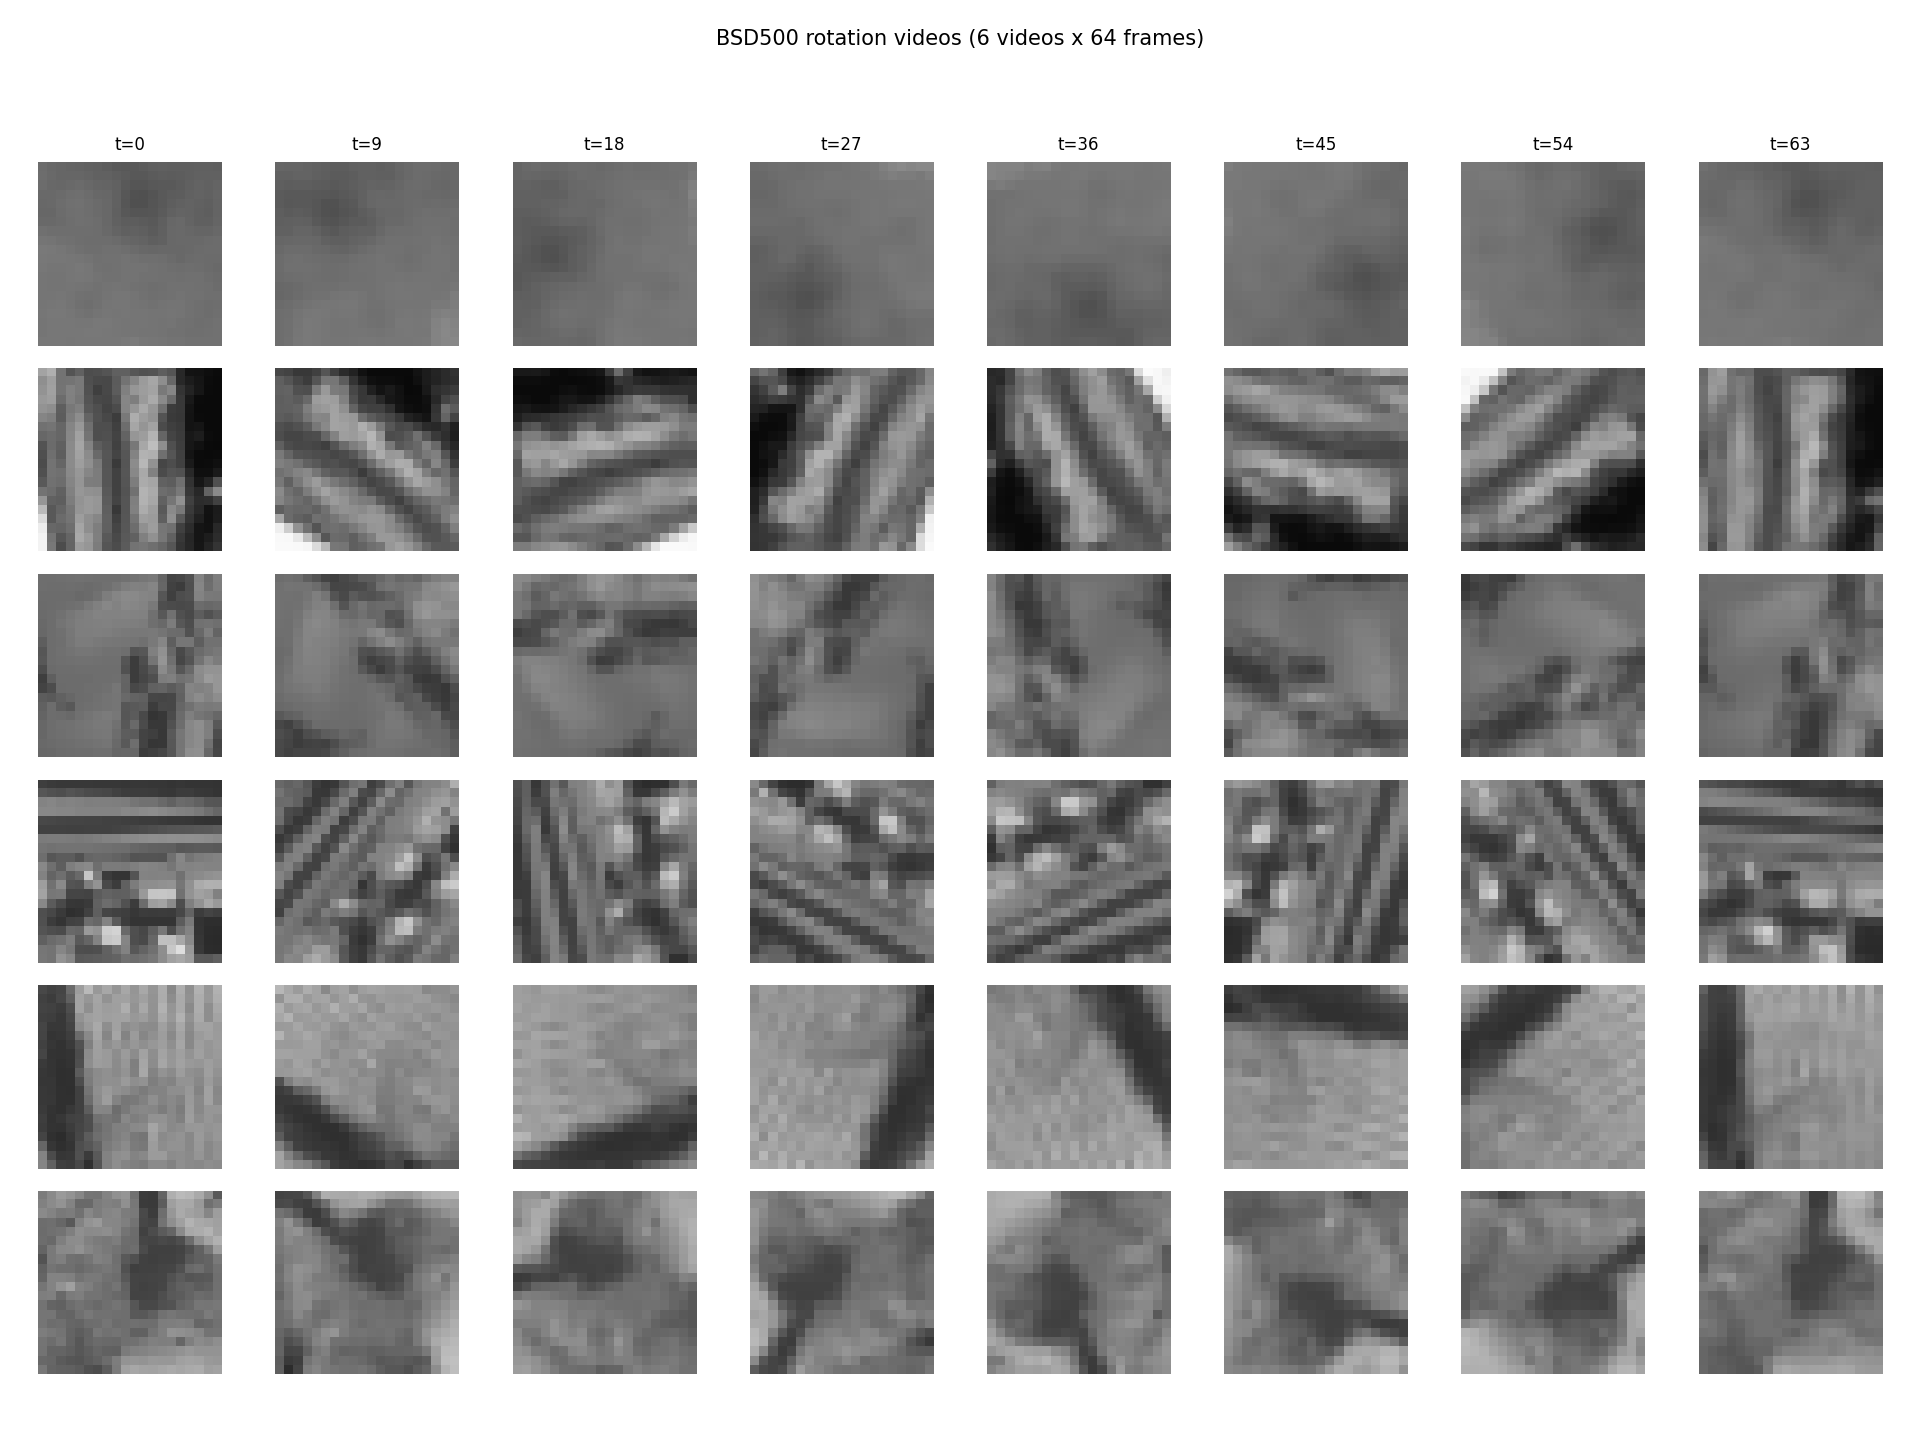
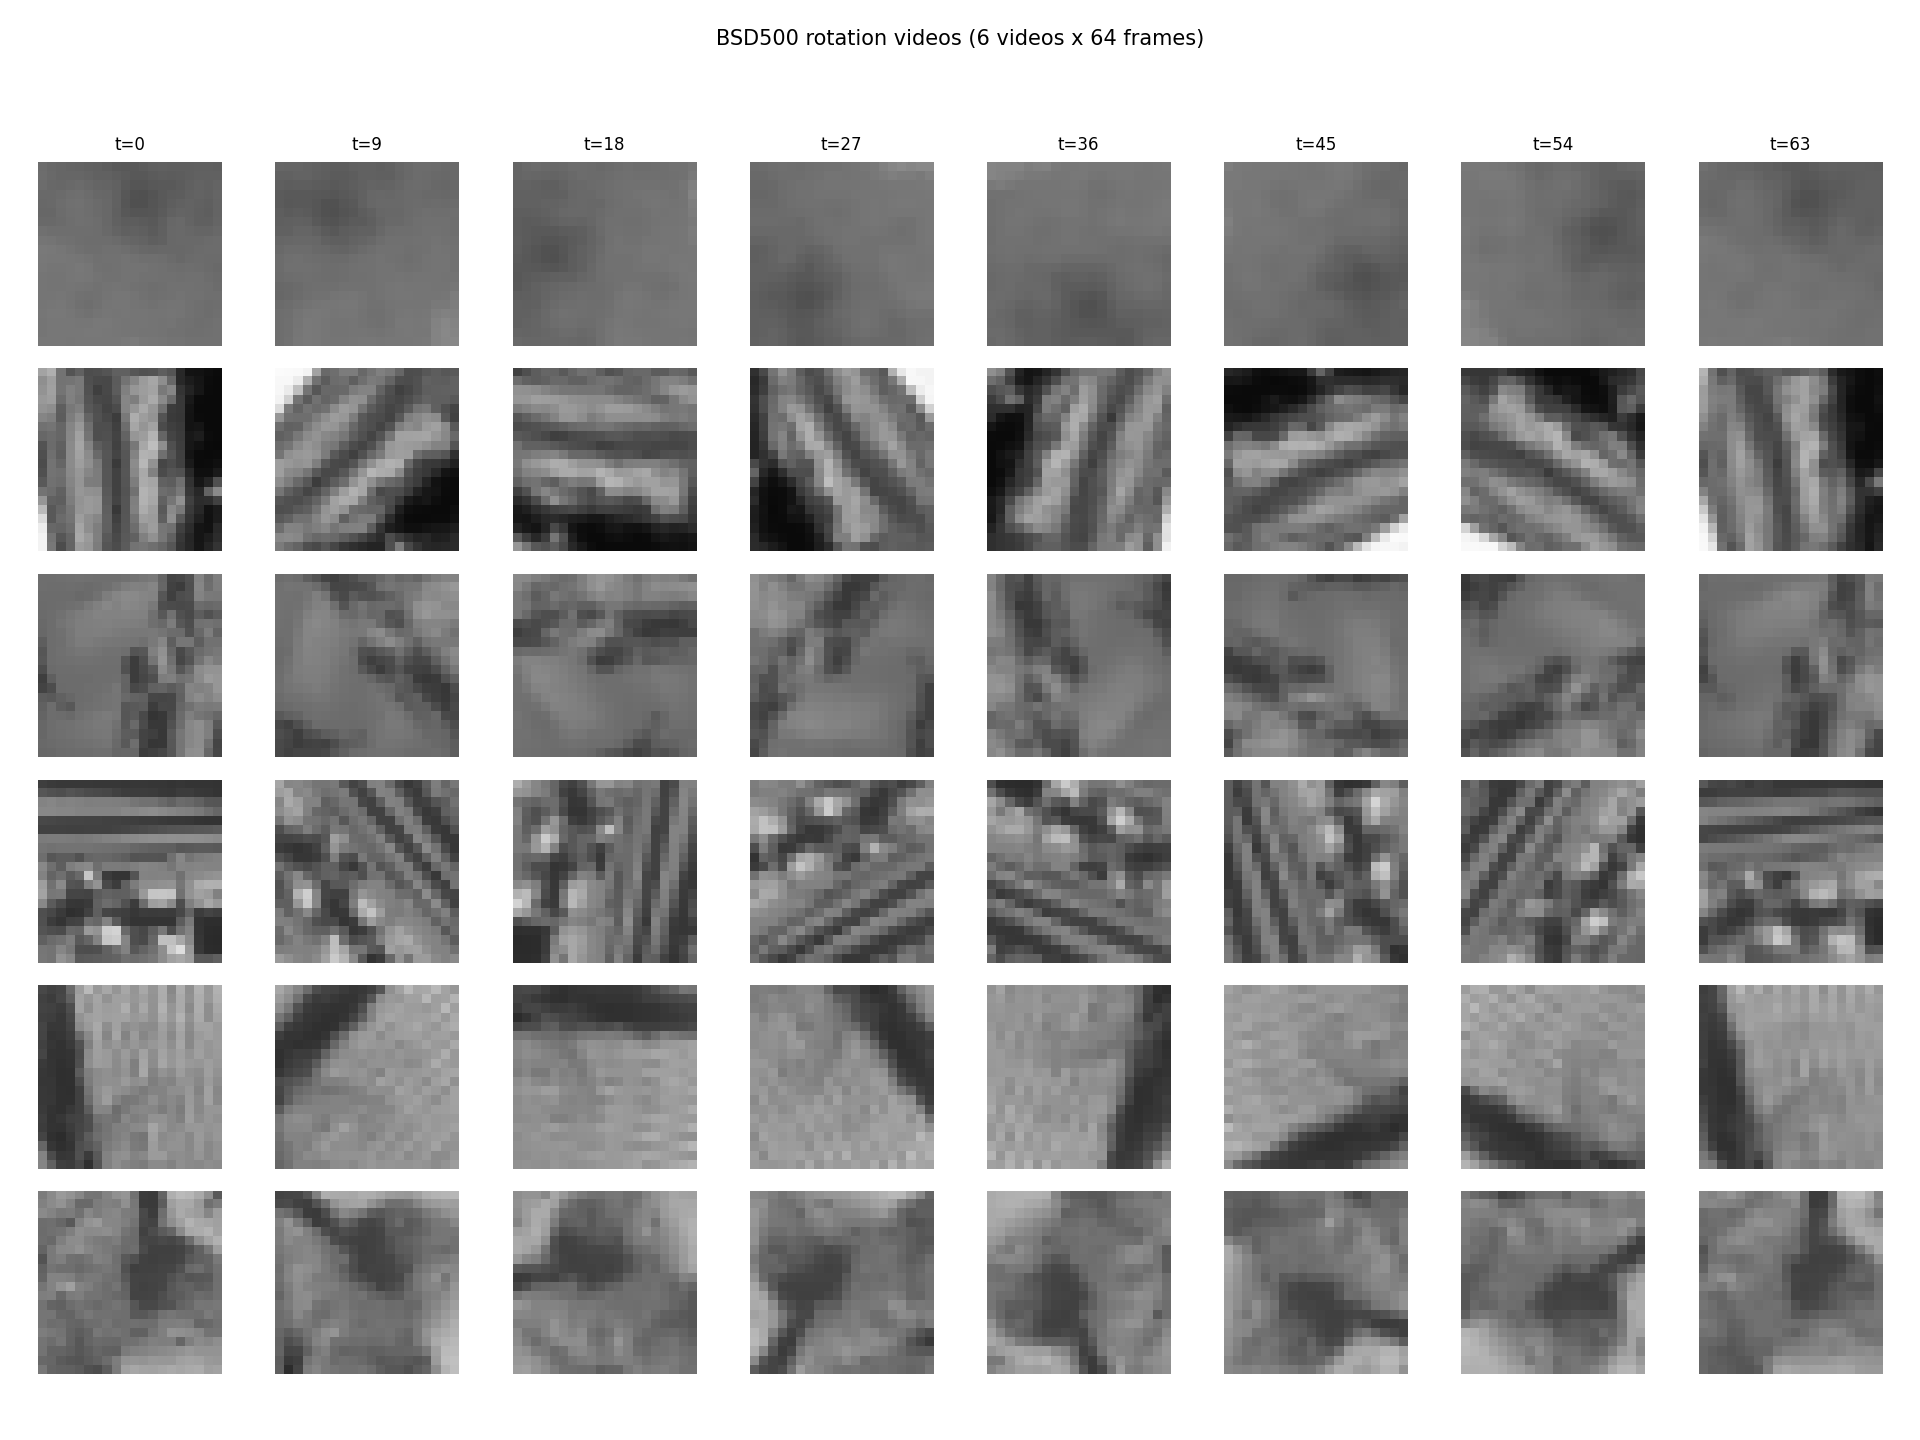
parametrised rotation augmentation

Changed region(s): [[0.125, 0.5312, 1.0, 0.8125], [0.125, 0.25, 1.0, 0.4062]]

diff --git a/data/bsd500_video.py b/data/bsd500_video.py
@@ -3,8 +3,9 @@
 BSD500 contains still images, not video. This module synthesises a random
 video clip from a single still by selecting a random patch within the image
 and rotating the whole image about the centre of that patch, one frame at a
-time. Each video performs one full 360-degree rotation across its frames, so
-the per-frame rotation step is fixed at ``360 / clip_length`` degrees.
+time. Each video rotates through a total angle sampled uniformly from a
+configurable range (default 50–360°); the per-frame step is that total angle
+divided by ``clip_length``, so smaller ranges rotate slower.
 
 Rotation happens at sampling time (not baked into stored chunks), so each
 training batch draws freshly randomized rotation videos. The output has the
@@ -22,14 +23,18 @@ the layer-1 / layer-2 training loops:
 
 Transformation semantics
 -----------------------
-For each clip a single random patch origin is chosen within the crop margins.
-Every frame ``t`` is the full image rotated about that patch centre by
-``t * (360 / clip_length)`` degrees, so the clip completes one full 360
-degree rotation by the last frame. Rotation uses bilinear interpolation (pure
-NumPy, no PIL at runtime); out-of-bounds reads are edge-clamped.
+For each clip a single random patch origin, a single rotation direction
+(``+1`` clockwise or ``-1`` anti-clockwise), and a single total rotation angle
+(sampled uniformly from ``rotation_range_deg``) are chosen. Every frame ``t``
+of that clip is the full image rotated about that patch centre by
+``d * t * (angle / clip_length)`` degrees, where ``d`` is the clip's fixed
+direction and ``angle`` is its fixed total angle, so every frame of a video
+rotates the same way and the clip completes its total rotation by the last
+frame. Rotation uses bilinear interpolation (pure NumPy, no PIL at runtime);
+out-of-bounds reads are edge-clamped.
 
-There is no translation and no per-frame re-sampling: the rotation step is
-constant for the whole video.
+There is no translation and no per-frame re-sampling: the rotation step,
+total angle, and direction are constant for the whole video.
 """
 
 from __future__ import annotations
@@ -86,14 +91,25 @@ def sample_bsd500_clips(
     rng: np.random.Generator,
     *,
     margins: BSD500CropMargins | None = None,
+    rotation_range_deg: tuple[float, float] = (50.0, 360.0),
 ) -> np.ndarray:
     """Sample random synthetic video clips ``(n_clips, T, P, P)`` from stills.
 
-    Rotation happens at sampling time. Each clip picks one still and a random
-    PxP patch origin within the margins. The full image is rotated about the
-    patch centre by ``t * (360 / clip_length)`` degrees per frame, then the
-    PxP patch is cropped - so the same features rotate in place within the
-    patch region throughout the clip.
+    Rotation happens at sampling time. Each clip picks one still, a random PxP
+    patch origin within the margins, a single rotation direction (``+1``
+    clockwise or ``-1`` anti-clockwise), and a single total rotation angle
+    sampled uniformly from ``rotation_range_deg``. The full image is rotated
+    about the patch centre by ``d * t * (angle / clip_length)`` degrees per
+    frame, where ``d`` is the clip's fixed direction and ``angle`` is its fixed
+    total angle, then the PxP patch is cropped - so every frame of a video
+    rotates the same way.
+
+    Parameters
+    ----------
+    rotation_range_deg
+        ``(min_deg, max_deg)`` total rotation angle range in degrees, sampled
+        uniformly per clip. Default ``(50.0, 360.0)``. Pass ``(360.0, 360.0)``
+        to restore the previous fixed full-360° behaviour.
 
     Returns
     -------
@@ -110,6 +126,14 @@ def sample_bsd500_clips(
         raise ValueError(f"clip_length must be positive, got {clip_length}.")
     if patch_size <= 0:
         raise ValueError(f"patch_size must be positive, got {patch_size}.")
+
+    rot_min, rot_max = float(rotation_range_deg[0]), float(rotation_range_deg[1])
+    if rot_min < 0.0:
+        raise ValueError(f"rotation_range_deg min must be >= 0, got {rot_min}.")
+    if rot_max < rot_min:
+        raise ValueError(
+            f"rotation_range_deg max ({rot_max}) must be >= min ({rot_min})."
+        )
 
     n_images, height, width = images.shape
     if patch_size > height - margins.top - margins.bottom:
@@ -139,8 +163,14 @@ def sample_bsd500_clips(
         size=n_clips,
     )
 
-    # Fixed per-frame rotation so the clip completes one full 360 degrees.
-    step_deg = 360.0 / clip_length
+    # Per-clip rotation direction: +1 clockwise, -1 anti-clockwise. Drawn once
+    # per clip so every frame of a video rotates the same way.
+    direction = rng.choice([-1.0, 1.0], size=n_clips)
+
+    # Per-clip total rotation angle, sampled uniformly from the configured range.
+    # step_deg is degrees per frame = total angle / clip_length.
+    angle_deg = rng.uniform(rot_min, rot_max, size=n_clips)                 # (n_clips,)
+    step_deg = angle_deg / clip_length                                      # (n_clips,)
 
     # Patch-local destination coords relative to the patch centre.
     half = (patch_size - 1) / 2.0
@@ -151,19 +181,28 @@ def sample_bsd500_clips(
     # Per-frame source-coordinate offset (relative to patch centre).
     # Because rotation is about the patch centre, these offsets depend only
     # on (t, dy, dx) -- not on the clip origin (oy, ox) -- so they are
-    # computed once and reused for every clip.
-    angles = np.arange(clip_length, dtype=np.float64) * step_deg  # (T,)
-    angle_rad = np.deg2rad(angles)                                # (T,)
-    c = np.cos(angle_rad)[:, None, None]                          # (T, 1, 1)
-    s = np.sin(angle_rad)[:, None, None]                          # (T, 1, 1)
-    off_y = c * dyy[None, :, :] + s * dxx[None, :, :]             # (T, P, P)
-    off_x = -s * dyy[None, :, :] + c * dxx[None, :, :]            # (T, P, P)
+    # computed once per clip and reused across patches.
+    # angles: (n_clips, T); c/s: (n_clips, T, 1, 1) for per-clip steps.
+    angles = np.arange(clip_length, dtype=np.float64)[None, :] * step_deg[:, None]  # (n_clips, T)
+    angle_rad = np.deg2rad(angles)                                                     # (n_clips, T)
+    c = np.cos(angle_rad)[:, :, None, None]                                            # (n_clips, T, 1, 1)
+    s = np.sin(angle_rad)[:, :, None, None]                                            # (n_clips, T, 1, 1)
+    # Direction-independent component tables (n_clips, T, P, P). Combining with
+    # the per-clip sign d yields R(d * theta): d=+1 clockwise, d=-1 anti-clockwise.
+    c_dyy = c * dyy[None, None, :, :]
+    s_dxx = s * dxx[None, None, :, :]
+    c_dxx = c * dxx[None, None, :, :]
+    s_dyy = s * dyy[None, None, :, :]
 
     clips = np.empty((n_clips, clip_length, patch_size, patch_size), dtype=np.float32)
     for i in range(n_clips):
         img = images[int(img_idx[i])]
         oy = int(y0[i])
         ox = int(x0[i])
+        d = float(direction[i])
+        # Per-clip rotation offsets: R(d * theta_i) applied to (dy, dx).
+        off_y = c_dyy[i] + d * s_dxx[i]
+        off_x = c_dxx[i] - d * s_dyy[i]
         # src_y/src_x: (T, P, P) source coords for every patch pixel, every frame.
         src_y = oy + half + off_y
         src_x = ox + half + off_x
@@ -195,6 +234,7 @@ class BSD500ClipStream:
         margins: BSD500CropMargins | None = None,
         seed: int = config.SEED,
         image_size: int = config.BSD500_IMAGE_SIZE,
+        rotation_range_deg: tuple[float, float] = (50.0, 360.0),
     ) -> None:
         if isinstance(images, (str, Path)):
             images = images_to_array(images, size=image_size)
@@ -222,6 +262,7 @@ class BSD500ClipStream:
             bottom=config.CROP_MARGIN_BOTTOM,
         )
         self.rng = np.random.default_rng(seed)
+        self.rotation_range_deg = (float(rotation_range_deg[0]), float(rotation_range_deg[1]))
 
     def sample_raw_batch(self, n_clips: int | None = None) -> np.ndarray:
         """Return ``(B, T, patch, patch)`` raw clips on the CPU."""
@@ -235,6 +276,7 @@ class BSD500ClipStream:
             self.patch_size,
             self.rng,
             margins=self.margins,
+            rotation_range_deg=self.rotation_range_deg,
         )
 
     def sample_batch(self, n_clips: int | None = None) -> Tensor:

diff --git a/scripts/visualise_bsd500_videos.py b/scripts/visualise_bsd500_videos.py
@@ -76,34 +76,45 @@ def _plot_video_grid(videos: np.ndarray, out_path: Path, n_frames: int, title: s
 def _plot_video_gif(videos: np.ndarray, out_path: Path, title: str, fps: int = 10) -> None:
     """Save an animated GIF of ``(n_videos, T, H, W)`` videos rotating through frames.
 
-    Each animation frame shows one time step across all videos in a grid.
-    Uses PillowWriter (no ffmpeg dependency).
+    Videos are arranged in a 2D grid (rows × columns); each animation frame
+    advances all videos to the next time step simultaneously. Uses PillowWriter
+    (no ffmpeg dependency).
     """
     n_videos, n_frames, height, width = videos.shape
+    n_cols = int(np.ceil(np.sqrt(n_videos)))
+    n_rows = int(np.ceil(n_videos / n_cols))
     fig, axes = plt.subplots(
-        n_videos,
-        1,
-        figsize=(2.0, 2.0 * n_videos),
+        n_rows,
+        n_cols,
+        figsize=(2.2 * n_cols, 2.2 * n_rows),
         squeeze=False,
     )
     fig.suptitle(title, fontsize=10)
 
+    # Hide any unused subplot cells.
+    for r in range(n_rows):
+        for c in range(n_cols):
+            ax = axes[r, c]
+            ax.axis("off")
+            if r * n_cols + c >= n_videos:
+                continue
+
     ims = []
     for t in range(n_frames):
         row_ims = []
-        for r in range(n_videos):
-            ax = axes[r, 0]
-            im = ax.imshow(videos[r, t], cmap="gray", vmin=0, vmax=1, animated=True)
-            ax.axis("off")
-            if r == 0:
-                ax.set_title(f"t={t}", fontsize=8)
-            if t == 0:
-                ax.set_ylabel(f"video {r}", rotation=0, labelpad=30, fontsize=8)
-            row_ims.append(im)
+        for r in range(n_rows):
+            for c in range(n_cols):
+                vid_idx = r * n_cols + c
+                ax = axes[r, c]
+                if vid_idx >= n_videos:
+                    continue
+                im = ax.imshow(
+                    videos[vid_idx, t], cmap="gray", vmin=0, vmax=1, animated=True
+                )
+                if t == 0:
+                    ax.set_title(f"video {vid_idx}", fontsize=8)
+                row_ims.append(im)
         ims.append(row_ims)
-        # Clear titles for subsequent frames so they get updated properly
-        for r in range(n_videos):
-            axes[r, 0].set_title("")
 
     plt.tight_layout(rect=[0, 0.03, 1, 0.95])
 

diff --git a/train_layer1.py b/train_layer1.py
@@ -124,6 +124,15 @@ def _parse_args() -> argparse.Namespace:
         help="Random seed for data sampling and basis initialisation.",
     )
     parser.add_argument(
+        "--bsd500-rotation-range",
+        type=float,
+        nargs=2,
+        default=(50.0, 360.0),
+        metavar=("MIN", "MAX"),
+        help="BSD500 total rotation angle range in degrees, sampled uniformly per clip "
+        "(default 50 360). Pass 360 360 for the previous fixed full-360 behaviour.",
+    )
+    parser.add_argument(
         "--num-patches",
         type=int,
         default=None,
@@ -304,6 +313,7 @@ def main() -> None:
             margins=margins,
             seed=args.seed,
             image_size=config.BSD500_IMAGE_SIZE,
+            rotation_range_deg=args.bsd500_rotation_range,
         )
     elif has_chunks:
         # Natural-movies chunks: pre-baked video, rotation already baked in.

diff --git a/train_layer2_motion.py b/train_layer2_motion.py
@@ -134,6 +134,15 @@ def _parse_args() -> argparse.Namespace:
         help="Random seed for data sampling and basis initialisation.",
     )
     parser.add_argument(
+        "--bsd500-rotation-range",
+        type=float,
+        nargs=2,
+        default=(50.0, 360.0),
+        metavar=("MIN", "MAX"),
+        help="BSD500 total rotation angle range in degrees, sampled uniformly per clip "
+        "(default 50 360). Pass 360 360 for the previous fixed full-360 behaviour.",
+    )
+    parser.add_argument(
         "--log-every",
         type=int,
         default=config.LAYER2_LOG_EVERY,
@@ -418,6 +427,7 @@ def main() -> None:
             margins=margins,
             seed=args.seed,
             image_size=config.BSD500_IMAGE_SIZE,
+            rotation_range_deg=args.bsd500_rotation_range,
         )
     else:
         stream = Layer1ClipStream(

diff --git a/train_layer2_form.py b/train_layer2_form.py
@@ -134,6 +134,15 @@ def _parse_args() -> argparse.Namespace:
         help="Random seed for data sampling and basis initialisation.",
     )
     parser.add_argument(
+        "--bsd500-rotation-range",
+        type=float,
+        nargs=2,
+        default=(50.0, 360.0),
+        metavar=("MIN", "MAX"),
+        help="BSD500 total rotation angle range in degrees, sampled uniformly per clip "
+        "(default 50 360). Pass 360 360 for the previous fixed full-360 behaviour.",
+    )
+    parser.add_argument(
         "--n-stats-clips",
         type=int,
         default=2000,
@@ -536,6 +545,7 @@ def main() -> None:
             margins=margins,
             seed=args.seed,
             image_size=config.BSD500_IMAGE_SIZE,
+            rotation_range_deg=args.bsd500_rotation_range,
         )
     else:
         stream = Layer1ClipStream(
